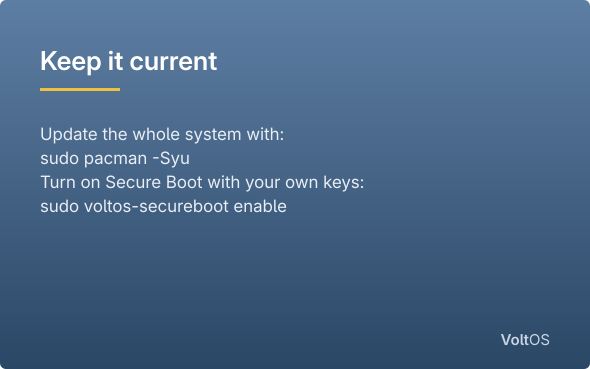
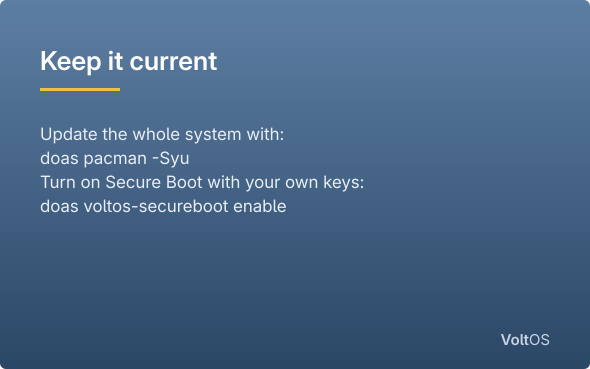
Use doas instead of sudo
- voltos-doas: depends on opendoas, ships /etc/doas.conf ("permit
  persist :wheel"; mode 0400), and replaces, conflicts with and provides
  sudo: installed systems are offered the swap by pacman -Syu, and
  packages that depend on sudo (base-devel) stay installable.  A small
  /usr/bin/sudo hands the common forms (sudo cmd, -u user, -i/-s, -n, -v;
  -E/-H/-k ignored) to doas so scripts, makepkg -s and AUR helpers keep
  working; other options say to use doas.
- The ISO has voltos-doas instead of sudo.  The live user gets
  "permit nopass liveuser" at boot (voltos-live-setup) instead of a
  sudoers drop-in; voltos-install writes the installed system's
  doas.conf without it.
- The text installer launcher, voltos-install's and voltos-secureboot's
  messages, the graphical installer's help and slide, and the README say
  doas.

Changed region(s): [[0.2441, 0.5366, 0.4881, 0.5962], [0.061, 0.5366, 0.2136, 0.5962], [0.061, 0.4173, 0.3356, 0.4472]]

diff --git a/README.md b/README.md
@@ -20,7 +20,7 @@ VoltOS is an Arch Linux–based desktop distribution with:
   text-mode installer is the fallback. Both run `voltos-install`, which
   copies the tested live system onto the ZFS pool, so installing works
   offline.
-- **Secure Boot, with your own keys.** `sudo voltos-secureboot enable` enrols
+- **Secure Boot, with your own keys.** `doas voltos-secureboot enable` enrols
   machine-owner keys (plus Microsoft's) and signs ZFSBootMenu and the kernels;
   updates are re-signed automatically.
 
@@ -37,6 +37,7 @@ VoltOS is built for x86_64 (UEFI and BIOS) and, as a newer port, AArch64
 | Live ISO on BIOS | Boots to the live desktop under SeaBIOS in QEMU (CI) |
 | Graphical installer (OpenSolaris gui-install on GTK 3) | CI installs through the GUI (test mode), then boots the result to the login screen |
 | AArch64 | Packages and ISO built in CI on an Arch Linux ARM root; CI boots the live desktop (virtio-gpu) and installs to ZFS, then boots the result through ZFSBootMenu to the login screen on a firmware-only framebuffer (ramfb). Newer and less tested than x86_64; no Secure Boot signing yet |
+| GNOME 2.32 desktop (GTK 2) | In progress: GTK 2 and Nimbus's GTK 2 engine are built (not on the ISO yet); the GNOME 2 platform and desktop come next. MATE stays the default |
 | Updates (`[voltos]` repository) | Signed packages published by CI to GitHub releases after the tests pass; the install test checks that the installed system verifies them |
 | CI (`.github/workflows/iso.yml`) | Builds, boots and installs both architectures; publishes both ISOs on `v*` tags (0.x tags as pre-releases) |
 
@@ -158,7 +159,7 @@ screens are kept; what is Solaris-specific underneath was replaced:
   the progress bar and slideshow. Time zones come from the IANA tz database.
 - **VoltOS choices.** Whole-disk installs only (the fdisk partition editor and
   the upgrade screens are gone), no root password (the account created on the
-  Users screen administers the system with sudo), VoltOS branding, help and
+  Users screen administers the system with doas), VoltOS branding, help and
   slides.
 
 ## Design notes
@@ -226,6 +227,17 @@ signed with the same key) boots normally. Without the secrets the ISO is
 unsigned and still boots wherever Secure Boot is off. CI boots the signed
 ISO with Secure Boot enforced (`tools/smoke-qemu.sh live-secureboot`).
 
+## Administrator access: doas
+
+VoltOS uses [doas](https://github.com/Duncaen/OpenDoas) instead of sudo.
+The account made at installation is in `wheel`, which `/etc/doas.conf`
+allows to run commands as root (`doas pacman -Syu`); root itself is locked.
+The `voltos-doas` package provides it, replaces sudo on systems that had it
+(`pacman -Syu` offers the swap) and keeps a small `sudo` command that hands
+the usual forms (`sudo cmd`, `-u user`, `-i`/`-s`, `-n`) to doas, so scripts,
+`makepkg -s` and AUR helpers keep working. Graphical prompts (the installer,
+settings) use polkit as before.
+
 ## Updates
 
 Installed systems get VoltOS's own packages (OpenZFS, ZFSBootMenu, Nimbus,
@@ -270,10 +282,10 @@ the fingerprint against the one `tools/make-repo-key.sh` printed):
 
 ```sh
 curl -fLO https://github.com/abdonmorales/voltOS/releases/download/repo-$(uname -m)/voltos-repo.asc
-sudo pacman-key --add voltos-repo.asc
-sudo pacman-key --lsign-key <fingerprint>
+doas pacman-key --add voltos-repo.asc
+doas pacman-key --lsign-key <fingerprint>
 # add the [voltos] section above to /etc/pacman.conf, before [core], then:
-sudo pacman -Sy voltos-keyring
+doas pacman -Sy voltos-keyring
 ```
 
 ## Credits
